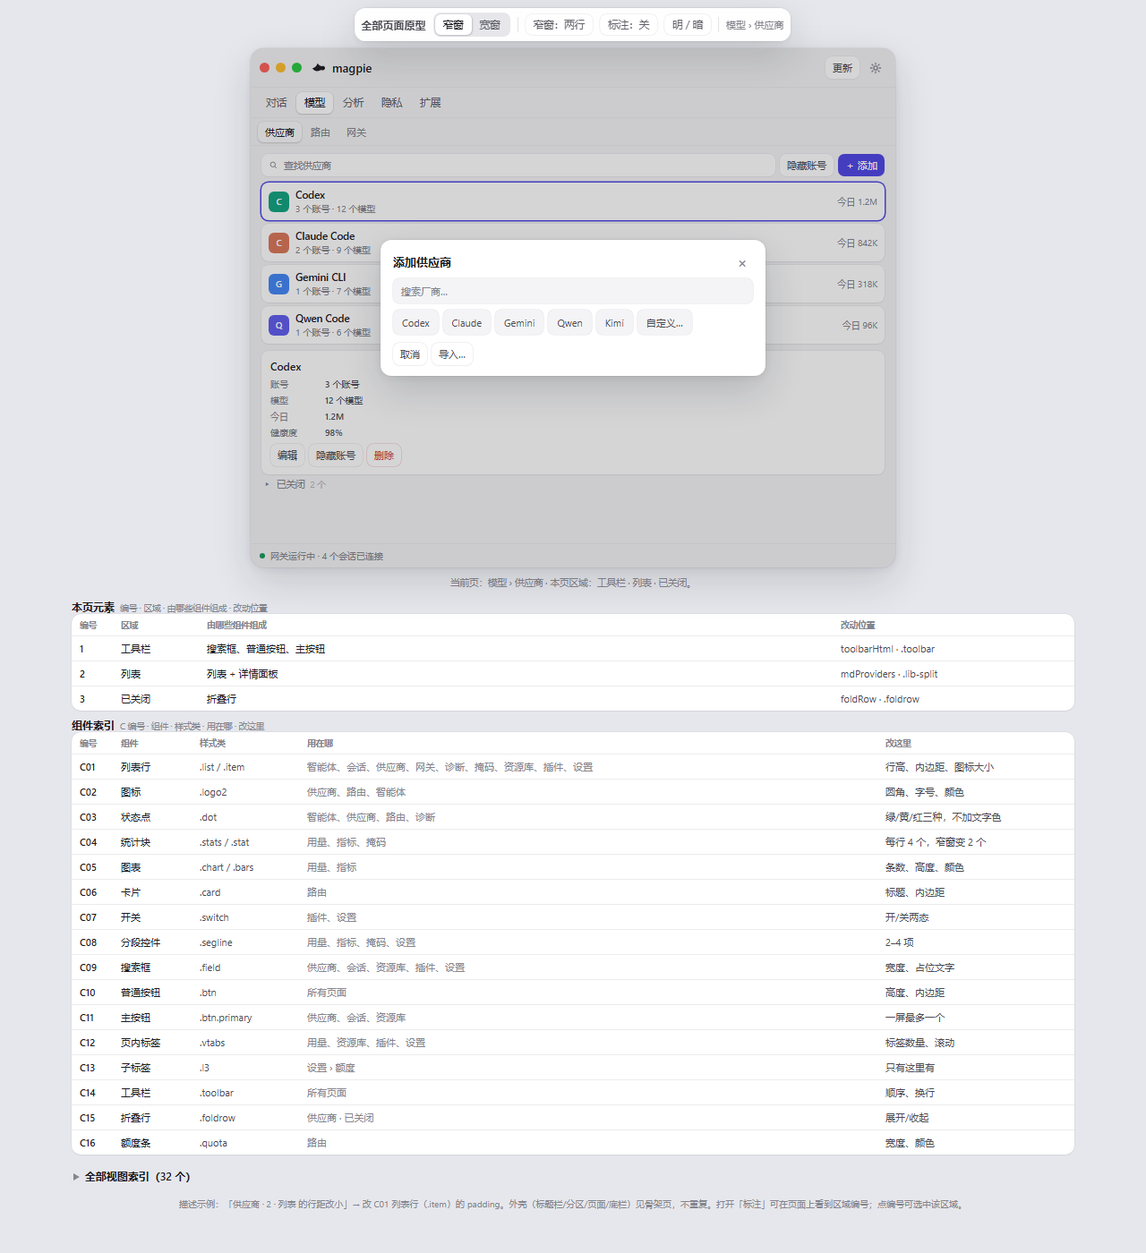
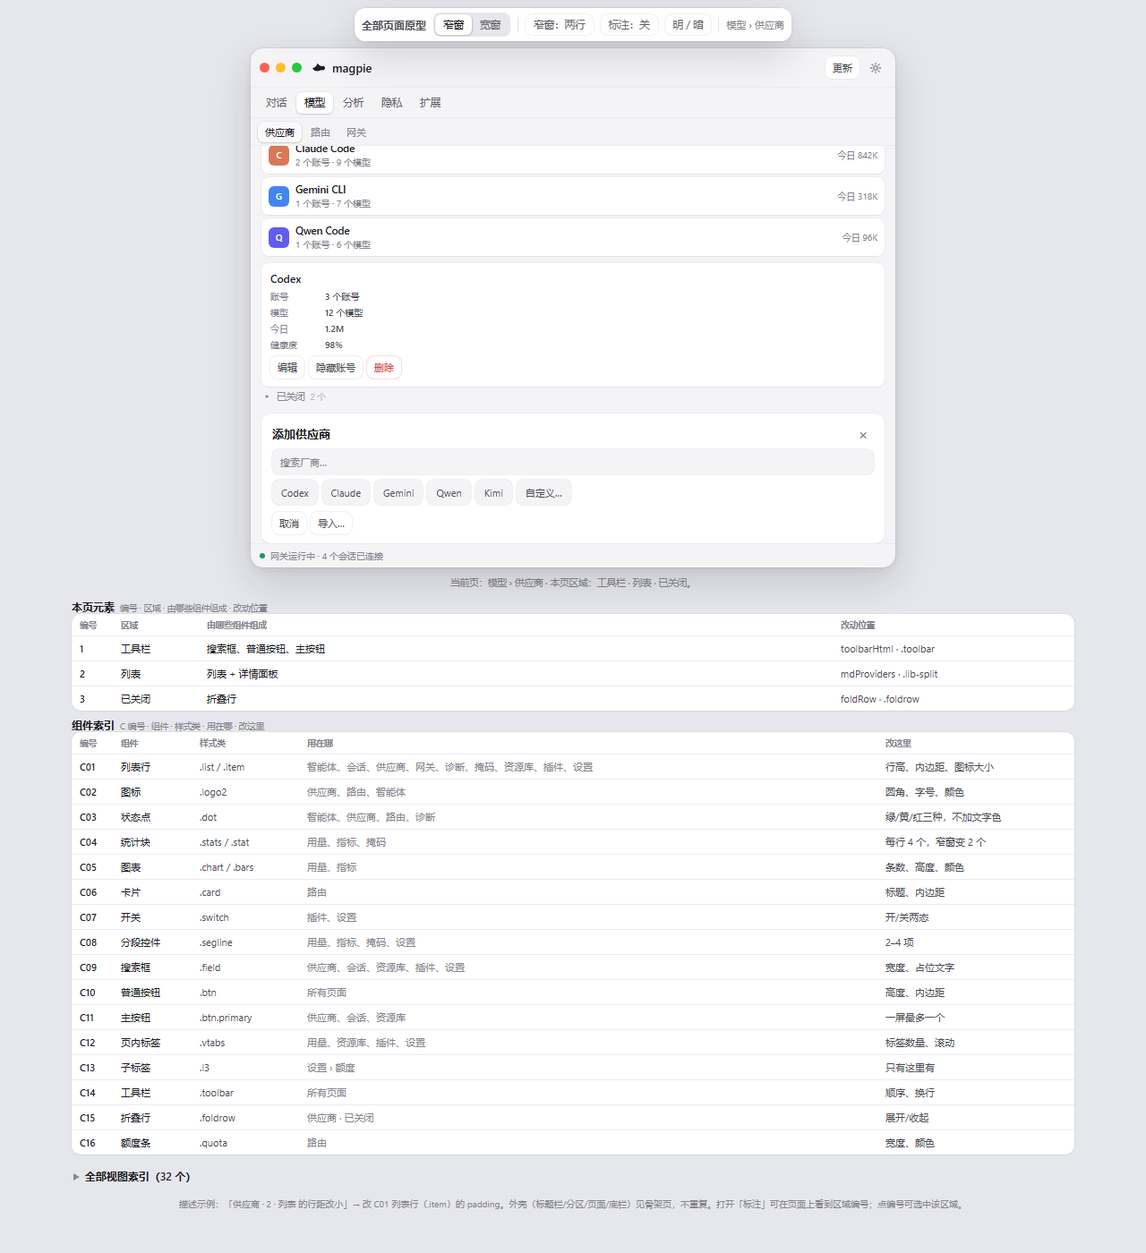
prototypes: inline add sheet, wired modals, and list states

Changed region(s): [[0.2188, 0.0, 0.7812, 0.4607]]

diff --git a/workspace/附属产物/nav-refactor/all-pages.html b/workspace/附属产物/nav-refactor/all-pages.html
@@ -212,6 +212,22 @@ button{font:inherit;color:inherit;background:none;border:0;cursor:default;appear
 .spec-hint{font-size:10px;color:var(--muted);line-height:1.5;max-width:900px;text-align:center}
 .foldrow{display:flex;align-items:center;gap:6px;padding:4px 2px;font-size:10.5px;color:var(--muted)}
 .foldrow .note{font-size:9.5px;color:var(--faint)}
+.formrow{display:flex;align-items:center;gap:8px}
+.formrow label{width:56px;font-size:10px;color:var(--muted);flex:none}
+.formrow .ov-search{flex:1}
+.keycap{background:var(--bg);border-radius:8px;padding:10px;text-align:center;font:13px ui-monospace,Consolas,monospace;color:var(--fg-2);box-shadow:inset 0 0 0 .5px var(--line)}
+.ov-list{display:flex;flex-direction:column;gap:1px}
+.mi.on{background:var(--accent-soft);color:var(--accent);font-weight:500}
+.grow{flex:1}
+.textbtn{font-size:10px;color:var(--muted);padding:0 6px;height:20px;border-radius:5px}
+.textbtn:hover{background:var(--pill);color:var(--fg)}
+.empty-list{border:1px dashed var(--line);border-radius:10px;padding:24px;text-align:center;font-size:11px;color:var(--faint)}
+.skel-list{display:flex;flex-direction:column;gap:6px;padding:4px}
+.skel-list i{height:12px;border-radius:6px;background:var(--pill);display:block}
+.skel-list i:nth-child(2){width:82%}
+.skel-list i:nth-child(3){width:66%}
+.skel-list i:nth-child(4){width:74%}
+.sheet-inline{background:var(--card);border-radius:10px;box-shadow:var(--shadow-sm);padding:10px 12px;margin-top:8px;display:flex;flex-direction:column;gap:6px}
 .ov{position:absolute;inset:0;z-index:30;background:rgba(20,22,30,.18);display:flex;align-items:center;justify-content:center}
 .ov-sheet{width:min(430px,92%);background:var(--card);border-radius:12px;box-shadow:var(--shadow);padding:12px 14px;display:flex;flex-direction:column;gap:7px}
 .ov-h{display:flex;align-items:center;gap:7px;font-size:13px;font-weight:600}
@@ -240,6 +256,7 @@ button{font:inherit;color:inherit;background:none;border:0;cursor:default;appear
   </div>
   <span class="sep"></span>
   <button class="tbtn" id="navBtn">窄窗：两行</button>
+  <button class="tbtn" id="stateBtn">状态：正常</button>
   <button class="tbtn" id="specBtn">标注：关</button>
   <button class="tbtn" id="themeBtn">明 / 暗</button>
   <span class="sep"></span>
@@ -287,7 +304,7 @@ const SECTIONS = [
   {id:'extend', name:'扩展', pages:['library','plugins']},
 ];
 const PAGES = {
-  agents:{name:'智能体',icon:'agents',kind:'agents',buttons:['刷新']},
+  agents:{name:'智能体',icon:'agents',kind:'agents',buttons:['刷新','＋ 添加']},
   sessions:{name:'会话',icon:'sessions',kind:'sessions',search:'搜索会话',buttons:['选择']},
   providers:{name:'供应商',icon:'providers',kind:'providers',search:'查找供应商',buttons:['隐藏账号','＋ 添加']},
   routing:{name:'路由',icon:'routing',kind:'routing',buttons:['今天','请求 / 会话','用途 ⌄','刷新']},
@@ -410,13 +427,22 @@ const COMPONENTS = [
 const state = {
   frame:'narrow', section:'model', page:'providers', theme:'light',
   tabs:{usage:'概览',library:'指令',plugins:'内置',settings:'额度'}, l3:'全部',
-  spec:false, sel:null, libSel:0, mdSel:0, compact:false, ov:null, menuAt:null, sw:{},
+  spec:false, sel:null, libSel:0, mdSel:0, compact:false, sheet:false, ov:null, menuAt:null, sw:{}, listState:'normal',
 };
 const qs = new URLSearchParams(location.search);
 if(qs.get('f')==='wide' || qs.get('f')==='narrow') state.frame = qs.get('f');
 if(qs.get('nav')==='one') state.compact = true;
-if(qs.get('ov')==='add') state.ov = 'add';
-if(qs.get('ov')==='menu'){ state.ov = 'menu'; state.menuAt = {x:120,y:150}; }
+if(['empty','loading'].includes(qs.get('state'))) state.listState = qs.get('state');
+const ovq = qs.get('ov');
+if(ovq==='add') state.sheet = true;
+else if(ovq==='menu'){ state.ov = {kind:'menu'}; state.menuAt = {x:120,y:150}; }
+else if(ovq==='confirm') state.ov = {kind:'confirm', title:'删除供应商？', body:'删除后无法恢复，使用它的请求会失败。', ok:'删除'};
+else if(ovq==='rename') state.ov = {kind:'rename', title:'重命名 / 移动会话'};
+else if(ovq==='lang') state.ov = {kind:'pick', title:'语言', items:['简体中文','繁體中文','English','日本語','Deutsch'], selected:'简体中文'};
+else if(ovq==='shortcut') state.ov = {kind:'shortcut', title:'快速面板快捷键', key:'⌃ ⌘ Space'};
+else if(ovq==='request') state.ov = {kind:'request', title:'请求详情'};
+else if(ovq==='update') state.ov = {kind:'update', title:'发现新版本 0.1.2401'};
+else if(ovq==='quit') state.ov = {kind:'quit', title:'退出 magpie？'};
 if(qs.get('p') && PAGES[qs.get('p')]) state.page = qs.get('p');
 if(qs.get('spec')==='1') state.spec = true;
 if(PAGES[state.page]){ const s=SECTIONS.find(x=>x.pages.includes(state.page)); if(s) state.section=s.id; }
@@ -575,8 +601,9 @@ function settingRow(name, sub, control){
 function settingsGeneral(){
   return [`<div class="list">
     ${settingRow('外观','跟随系统','<div class="segline"><button class="segbtn on">跟随</button><button class="segbtn">浅色</button><button class="segbtn">深色</button></div>')}
-    ${settingRow('语言','','<button class="btn">简体中文 ⌄</button>')}
+    ${settingRow('语言','','<button class="btn" data-act="lang">简体中文 ⌄</button>')}
     ${settingRow('文字大小','','<div class="segline"><button class="segbtn">小</button><button class="segbtn on">中</button><button class="segbtn">大</button></div>')}
+    ${settingRow('快速面板快捷键','','<button class="btn" data-act="shortcut">⌃ ⌘ Space</button>')}
     ${settingRow('减少动态效果','','<span class="switch"></span>')}
   </div>`];
 }
@@ -838,7 +865,7 @@ function mdSessions(){
   return [mdSplit(items, x=>{
     const i = SESSION_INFO[x.n] || ['—','—','—','—'];
     return det(x.n, [['Agent',i[0]],['会话数',i[1]],['最近',i[2]],['文件夹',i[3]]],
-      '<button class="btn">打开</button><button class="btn">重命名</button><button class="btn">移动</button>');
+      '<button class="btn">打开</button><button class="btn" data-act="rename">重命名</button><button class="btn" data-act="rename">移动</button>');
   })];
 }
 function mdProviders(){
@@ -846,7 +873,7 @@ function mdProviders(){
   return [mdSplit(items, x=>{
     const i = PROVIDER_INFO[x.n] || ['—','—','—','—'];
     return det(x.n, [['账号',i[0]],['模型',i[1]],['今日',i[2]],['健康度',i[3]]],
-      '<button class="btn">编辑</button><button class="btn">隐藏账号</button><button class="btn danger">删除</button>');
+      '<button class="btn">编辑</button><button class="btn">隐藏账号</button><button class="btn danger" data-act="delProvider">删除</button>');
   })];
 }
 function mdDoctor(){
@@ -887,7 +914,7 @@ function mdRequests(){
   return [mdSplit(items, x=>{
     const i = REQUEST_INFO[x.n] || ['—','—','—'];
     return det(x.n, [['耗时',i[0]],['令牌',i[1]],['状态',i[2]],['时间','今天 14:20']],
-      '<button class="btn">在路由页打开</button><button class="btn">复制</button>');
+      '<button class="btn" data-act="request">详情</button><button class="btn">复制</button>');
   })];
 }
 function mdUsageSessions(){
@@ -906,7 +933,16 @@ function mdRank(){
       '<button class="btn">看请求</button>');
   })];
 }
+function listStateOn(){
+  if(state.listState==='normal') return false;
+  if(['agents','sessions','providers','doctor','masking','library','plugins'].includes(state.page)) return true;
+  if(state.page==='usage' && ['请求','会话','榜单'].includes(state.tabs.usage)) return true;
+  return false;
+}
+function emptyState(){ return `<div class="empty-list">暂无内容</div>`; }
+function skeletonState(){ return `<div class="skel-list"><i></i><i></i><i></i><i></i></div>`; }
 function bodyBlocks(page, kind){
+  if(listStateOn()) return [state.listState==='empty' ? emptyState() : skeletonState()];
   const p = PAGES[page];
   const tab = p && p.tabs ? (state.tabs[page] || p.tabs[0]) : null;
   const f = tab && TAB_BODIES[page] && TAB_BODIES[page][tab];
@@ -923,6 +959,7 @@ function bodyBlocks(page, kind){
   return [listRows(kind)];
 }
 function bodyNamesFor(page, tab){
+  if(listStateOn()) return [state.listState==='empty' ? '空状态' : '骨架屏'];
   const p = PAGES[page];
   const n = tab && TAB_BODY_NAMES[page] && TAB_BODY_NAMES[page][tab];
   return n || BODY_NAMES[p.kind] || ['内容'];
@@ -981,11 +1018,11 @@ function topbar(brand){
   return `<header class="top">
     <div class="lights"><i></i><i></i><i></i></div>
     ${brand?`<div class="brand">${logo()}<span>magpie</span></div>`:`<div class="crumb">${PAGES[state.page].name}</div>`}
-    <div class="actions"><button class="btn">更新</button><button class="iconbtn${state.page==='settings'?' on':''}" data-page="settings">${ic('gear')}</button></div>
+    <div class="actions"><button class="btn" data-act="update">更新</button><button class="iconbtn${state.page==='settings'?' on':''}" data-page="settings">${ic('gear')}</button></div>
   </header>`;
 }
 function footerbar(){
-  return `<footer style="flex:none;height:27px;display:flex;align-items:center;gap:6px;padding:0 10px;border-top:.5px solid var(--line-2);font-size:10px;color:var(--muted)"><span class="dot"></span>网关运行中 · 4 个会话已连接</footer>`;
+  return `<footer style="flex:none;height:27px;display:flex;align-items:center;gap:6px;padding:0 10px;border-top:.5px solid var(--line-2);font-size:10px;color:var(--muted)"><span class="dot"></span>网关运行中 · 4 个会话已连接<span class="grow"></span><button class="textbtn" data-act="quit">退出</button></footer>`;
 }
 function regionsFor(page, p){
   const arr = [];
@@ -996,10 +1033,19 @@ function regionsFor(page, p){
   bodyBlocks(page, p.kind).forEach((html,i)=>arr.push([names[i]||'内容', html]));
   return arr;
 }
+function addSheetInline(){
+  return `<div class="sheet-inline">
+    <div class="ov-h"><span>添加供应商</span><span class="grow"></span><button class="ov-close" data-closesheet>×</button></div>
+    <div class="ov-search">搜索厂商…</div>
+    <div class="ov-tiles">${['Codex','Claude','Gemini','Qwen','Kimi','自定义…'].map(x=>`<button class="ov-tile">${x}</button>`).join('')}</div>
+    <div class="rowbtns"><button class="btn" data-closesheet>取消</button><button class="btn">导入…</button></div>
+  </div>`;
+}
 function mainView(){
   const p = PAGES[state.page];
   const regions = regionsFor(state.page, p);
-  return `<main class="view">${regions.map((r,i)=>reg(i+1, r[0], r[1])).join('')}</main>`;
+  const sheet = state.sheet && state.page==='providers' ? addSheetInline() : '';
+  return `<main class="view">${regions.map((r,i)=>reg(i+1, r[0], r[1])).join('')}${sheet}</main>`;
 }
 function compactNav(){
   let out = '';
@@ -1012,23 +1058,49 @@ function compactNav(){
   out += `<button class="tab${state.page==='settings'?' on':''}" data-page="settings">设置</button>`;
   return `<nav class="tabstrip">${out}</nav>`;
 }
+function modalHtml(title, body, actions){
+  return `<div class="ov"><div class="ov-sheet">
+    <div class="ov-h"><span>${title}</span><span class="grow"></span><button class="ov-close" data-ovclose>×</button></div>
+    ${body}
+    <div class="rowbtns">${actions}</div>
+  </div></div>`;
+}
 function overlayHtml(){
-  if(!state.ov) return '';
-  if(state.ov==='add'){
-    return `<div class="ov"><div class="ov-sheet">
-      <div class="ov-h"><span>添加供应商</span><span class="grow"></span><button class="ov-close" data-ovclose>×</button></div>
-      <div class="ov-search">搜索厂商…</div>
-      <div class="ov-tiles">${['Codex','Claude','Gemini','Qwen','Kimi','自定义…'].map(x=>`<button class="ov-tile">${x}</button>`).join('')}</div>
-      <div class="rowbtns"><button class="btn" data-ovclose>取消</button><button class="btn">导入…</button></div>
-    </div></div>`;
-  }
-  if(state.ov==='menu'){
+  const o = state.ov;
+  if(!o) return '';
+  if(o.kind==='menu'){
     const p = state.menuAt || {x:40,y:40};
     return `<div class="ov"><div class="ov-menu" style="left:min(${p.x}px, calc(100% - 160px));top:min(${p.y}px, calc(100% - 210px))">
       <button class="mi" data-ovclose>移至顶部</button><button class="mi" data-ovclose>上移</button><button class="mi" data-ovclose>下移</button><button class="mi" data-ovclose>移至底部</button>
       <div class="msep"></div><button class="mi" data-ovclose>编辑</button><button class="mi danger" data-ovclose>删除</button>
     </div></div>`;
   }
+  if(o.kind==='confirm') return modalHtml(o.title || '确认', `<p class="hint">${o.body||''}</p>`,
+    `<button class="btn" data-ovclose>取消</button><button class="btn danger" data-ovclose>${o.ok||'确定'}</button>`);
+  if(o.kind==='edit') return modalHtml(o.title || '编辑',
+    (o.fields||[]).map(([k,v])=>`<div class="formrow"><label>${k}</label><div class="ov-search">${v}</div></div>`).join(''),
+    '<button class="btn" data-ovclose>取消</button><button class="btn primary" data-ovclose>保存</button>');
+  if(o.kind==='pick') return modalHtml(o.title || '选择',
+    `<div class="ov-list">${(o.items||[]).map(x=>`<button class="mi${x===o.selected?' on':''}" data-ovclose>${x}</button>`).join('')}</div>`,
+    '<button class="btn" data-ovclose>取消</button>');
+  if(o.kind==='shortcut') return modalHtml(o.title || '快捷键',
+    `<div class="keycap">${o.key||'⌃ ⌘ Space'}</div><p class="hint">按下组合键；Esc 取消，Backspace 清除。</p>`,
+    '<button class="btn" data-ovclose>清除</button><button class="btn primary" data-ovclose>保存</button>');
+  if(o.kind==='rename') return modalHtml(o.title || '重命名 / 移动会话',
+    `<div class="formrow"><label>标题</label><div class="ov-search">项目一 · 代码评审</div></div><div class="formrow"><label>文件夹</label><div class="ov-search">~/work/project-one</div></div>`,
+    '<button class="btn" data-ovclose>取消</button><button class="btn primary" data-ovclose>保存</button>');
+  if(o.kind==='addAgent') return modalHtml(o.title || '添加智能体',
+    `<div class="ov-tiles">${['Codex','Claude Code','Gemini CLI','自定义…'].map(x=>`<button class="ov-tile">${x}</button>`).join('')}</div><div class="formrow"><label>命令</label><div class="ov-search">codex</div></div><div class="formrow"><label>模型</label><div class="ov-search">跟随默认</div></div>`,
+    '<button class="btn" data-ovclose>取消</button><button class="btn primary" data-ovclose>添加</button>');
+  if(o.kind==='request') return modalHtml(o.title || '请求详情',
+    `<div class="det-row"><span>模型</span><b>codex/gpt-5.6-sol</b></div><div class="det-row"><span>耗时</span><b>1.2s</b></div><div class="det-row"><span>令牌</span><b>2.4K</b></div><div class="det-row"><span>状态</span><b>成功</b></div>`,
+    '<button class="btn" data-ovclose>关闭</button><button class="btn">在路由页打开</button>');
+  if(o.kind==='update') return modalHtml(o.title || '发现新版本',
+    `<p class="hint">更新会重启 magpie，正在运行的请求会先完成。</p>`,
+    '<button class="btn" data-ovclose>稍后</button><button class="btn primary" data-ovclose>更新</button>');
+  if(o.kind==='quit') return modalHtml(o.title || '退出 magpie？',
+    `<p class="hint">还有 4 个会话连着网关，退出会中断它们。</p>`,
+    '<button class="btn" data-ovclose>取消</button><button class="btn danger" data-ovclose>退出</button>');
   return '';
 }
 function renderStage(){
@@ -1041,6 +1113,8 @@ function renderStage(){
   document.querySelectorAll('#frameSeg button[data-f]').forEach(b=>b.classList.toggle('on', b.dataset.f===state.frame));
   document.getElementById('specBtn').textContent = '标注：' + (state.spec ? '开' : '关');
   document.getElementById('navBtn').textContent = '窄窗：' + (state.compact ? '一行' : '两行');
+  document.getElementById('stateBtn').textContent = '状态：' + ({normal:'正常',empty:'空',loading:'加载'}[state.listState]);
+  if(state.sheet){ const sh=document.querySelector('.sheet-inline'); if(sh) sh.scrollIntoView({block:'nearest'}); }
   if(state.frame==='narrow' && state.compact){ const nav=document.querySelector('.win.narrow .tabstrip'); const on=nav && nav.querySelector('.tab.on'); if(on) nav.scrollLeft = Math.max(0, on.offsetLeft - 60); }
   const regions = regionsFor(state.page, PAGES[state.page]).map(r=>r[0]);
   const selTxt = state.sel ? ('已选：' + where + ' · 区域 ' + state.sel.n + ' · ' + state.sel.name) : ('当前页：' + where);
@@ -1059,11 +1133,23 @@ function renderStage(){
 stage.addEventListener('click', e=>{
   const sw = e.target.closest('[data-sw]');
   if(sw){ const n = sw.dataset.sw; state.sw[n] = !sw.classList.contains('on'); renderStage(); return; }
-  const act = e.target.closest('[data-act="add"]');
-  if(act){ state.ov = 'add'; renderStage(); return; }
+  const act = e.target.closest('[data-act]');
+  if(act){
+    const a = act.dataset.act;
+    if(a==='add'){ if(state.page==='agents') state.ov={kind:'addAgent'}; else { state.sheet = true; state.ov = null; } }
+    else if(a==='delProvider') state.ov={kind:'confirm', title:'删除供应商？', body:'删除后无法恢复，使用它的请求会失败。', ok:'删除'};
+    else if(a==='rename') state.ov={kind:'rename', title:'重命名 / 移动会话'};
+    else if(a==='lang') state.ov={kind:'pick', title:'语言', items:['简体中文','繁體中文','English','日本語','Deutsch'], selected:'简体中文'};
+    else if(a==='shortcut') state.ov={kind:'shortcut', title:'快速面板快捷键', key:'⌃ ⌘ Space'};
+    else if(a==='request') state.ov={kind:'request', title:'请求详情'};
+    else if(a==='update') state.ov={kind:'update', title:'发现新版本 0.1.2401'};
+    else if(a==='quit') state.ov={kind:'quit', title:'退出 magpie？'};
+    renderStage(); return;
+  }
+  if(e.target.closest('[data-closesheet]')){ state.sheet = false; renderStage(); return; }
+  if(e.target.closest('[data-ovclose]')){ state.ov = null; renderStage(); return; }
   const ov = e.target.closest('.ov');
   if(ov){
-    if(e.target.closest('[data-ovclose]')){ state.ov = null; renderStage(); return; }
     if(!e.target.closest('.ov-sheet') && !e.target.closest('.ov-menu')){ state.ov = null; renderStage(); return; }
     return;
   }
@@ -1095,11 +1181,11 @@ stage.addEventListener('contextmenu', e=>{
   if(!row || state.page!=='providers') return;
   e.preventDefault();
   const wr = row.closest('.win').getBoundingClientRect();
-  state.ov = 'menu'; state.menuAt = {x:e.clientX-wr.left, y:e.clientY-wr.top};
+  state.ov = {kind:'menu'}; state.menuAt = {x:e.clientX-wr.left, y:e.clientY-wr.top};
   renderStage();
 });
 document.addEventListener('keydown', e=>{
-  if(e.key==='Escape' && state.ov){ state.ov = null; renderStage(); }
+  if(e.key==='Escape' && (state.ov || state.sheet)){ state.ov = null; state.sheet = false; renderStage(); }
 });
 function renderAllIndex(){
   const rows = [];
@@ -1132,6 +1218,7 @@ document.getElementById('frameSeg').addEventListener('click', e=>{
   state.frame = b.dataset.f; renderStage();
 });
 document.getElementById('navBtn').addEventListener('click', ()=>{ state.compact = !state.compact; renderStage(); });
+document.getElementById('stateBtn').addEventListener('click', ()=>{ state.listState = state.listState==='normal' ? 'empty' : (state.listState==='empty' ? 'loading' : 'normal'); renderStage(); });
 document.getElementById('specBtn').addEventListener('click', ()=>{
   state.spec = !state.spec; state.sel = null; renderStage();
 });

diff --git a/workspace/附属产物/nav-refactor/COMPARE.md b/workspace/附属产物/nav-refactor/COMPARE.md
@@ -28,38 +28,43 @@
 
 | 界面 | 现行版（外观 / 行为） | 原型现状 | 判断 |
 |---|---|---|---|
-| 添加供应商 | 列表下方展开 sheet，预设厂商 + 导入，列表仍可交互 | 居中 modal，可开/关、Esc/点背景关闭 | ◐ 行为可操作，呈现方式不同 |
+| 添加供应商 | 列表下方展开 sheet，预设厂商 + 导入，列表仍可交互 | 列表下方 sheet，可开/关、Esc/取消 | ✅ |
 | 导入配置 | modal，勾选发现的配置 | 静态卡片 | ○ |
 | 右键排序菜单 | 行右键：置顶/上移/下移/置底/编辑/删除 | 可现场右键打开，点项关闭 | ✅ |
 | 供应商行展开 | 原地展开：账号、密钥、登录 | 浮层 1 保留；页面改为右详情 | ◐ 对照用 |
-| 密钥编辑 | modal：名称/密钥/模型 | 静态卡片 | ○ |
-| 确认删除 | modal，危险按钮 | 静态 | ○ |
-| 模型选择器 | popover，搜索 + 列表 | 静态 | ○ |
-| 语言选择器 | 菜单 | 静态 | ○ |
+| 密钥编辑 | modal：名称/密钥/模型 | 有通用编辑 modal（?ov=edit），页面入口待补 | ◐ |
+| 确认删除 | modal，危险按钮 | 供应商·删除打开确认 modal | ✅ |
+| 模型选择器 | popover，搜索 + 列表 | 有通用选择 modal，页面入口待补 | ◐ |
+| 语言选择器 | 菜单 | 设置·语言打开选择 modal | ✅ |
 | 字体选择器 | 字族 + 字重两列 + 预览 | 静态 | ○ |
-| 快捷键录制 | 录制态、Esc 取消、Backspace 清除 | 静态 | ○ |
-| 会话重命名/移动 | modal 表单 | 静态 | ○ |
-| 添加智能体 | sheet：厂商/命令/模型 | 静态 | ○ |
-| 请求详情/上下文文本 | modal，令牌/时间/文本 | 静态 | ○ |
+| 快捷键录制 | 录制态、Esc 取消、Backspace 清除 | 设置·快捷键打开录制 modal | ✅ |
+| 会话重命名/移动 | modal 表单 | 会话·重命名/移动打开表单 modal | ✅ |
+| 添加智能体 | sheet：厂商/命令/模型 | 智能体·＋添加打开 sheet modal | ✅ |
+| 请求详情/上下文文本 | modal，令牌/时间/文本 | 用量·请求·详情打开 modal；上下文仍静态 | ◐ |
 | 手机 | 底部标签 + 内页 | 静态 | ○ |
 | 托盘面板 | 4 页签 + 额度卡片 | 静态 | ○ |
-| 更新提示/下载/重启 | 提示 → 进度 → 重启确认 | 静态 | ○ |
+| 更新提示/下载/重启 | 提示 → 进度 → 重启确认 | 顶栏·更新打开提示 modal；进度/重启仍静态 | ◐ |
 | 丢弃编辑确认 | modal | 静态 | ○ |
-| 退出确认 | modal，列出连着的会话 | 静态 | ○ |
-| Esc / 点背景关闭 | 所有浮层 | 添加 sheet、右键菜单已支持；其余静态 | ◐ |
-| 空状态 / 骨架屏 / 错误条 | 列表加载与失败时有 | 组件已有，页面未接 | ○ |
+| 退出确认 | modal，列出连着的会话 | 底栏·退出打开确认 modal | ✅ |
+| Esc / 点背景关闭 | 所有浮层 | 已接的 modal/sheet/menu 都支持；静态卡片除外 | ✅ |
+| 空状态 / 骨架屏 / 错误条 | 列表加载与失败时有 | 顶部「状态」可切正常/空/加载；错误条未接 | ◐ |
 | 焦点 / 键盘操作 | 焦点环、Tab、Enter | 未建模 | ○ |
 
 ## 本轮已补的行为
 
-- 供应商「＋ 添加」→ 打开添加 sheet；Esc、点背景、取消、× 都能关。
-- 供应商行右键 → 排序/编辑/删除菜单；点任一项关闭。
+- 添加供应商：改为现行版的“列表下方 sheet”，不再是居中弹窗；Esc、取消、× 都能关。
+- 供应商·删除 → 确认 modal；供应商行右键 → 排序/编辑/删除菜单。
+- 会话·重命名/移动 → 表单 modal。
+- 设置·语言 → 选择 modal；设置·快捷键 → 录制 modal。
+- 智能体·＋添加 → 添加 modal。
+- 用量·请求·详情 → 请求 modal。
+- 顶栏·更新、底栏·退出 → 提示 / 确认 modal。
 - 插件开关 → 点击即切换，详情面板状态同步。
-- 所有浮层共用同一层，不会把窗口外也盖住。
+- 顶部「状态」→ 正常 / 空 / 加载；空状态与骨架屏可在列表页验证。
+- 所有已接的 modal/sheet/menu 都支持 Esc、点背景、× 关闭。
 
 ## 下一步（按优先级）
 
-1. 添加供应商：现行版是“列表下方 sheet”，原型是居中 modal；要不要改成下方 sheet？
-2. 把静态浮层逐个接上开关：密钥编辑、确认删除、模型/语言/字体、快捷键、会话重命名/移动、添加智能体、请求详情。
-3. 给列表加「正常 / 空 / 加载」状态切换，验证空状态与骨架屏。
-4. 焦点环与 Esc/Enter 行为补齐。
+1. 剩余静态：导入配置、密钥编辑入口、模型/字体选择器、丢弃编辑确认、错误条。
+2. 网关页补密钥列表，让密钥编辑有入口。
+3. 焦点环、Tab、Enter 行为补齐。
